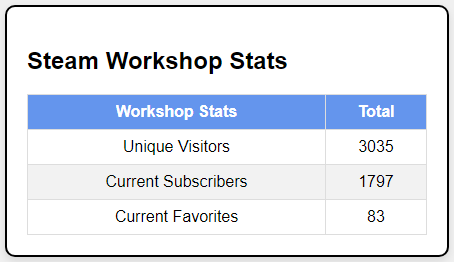
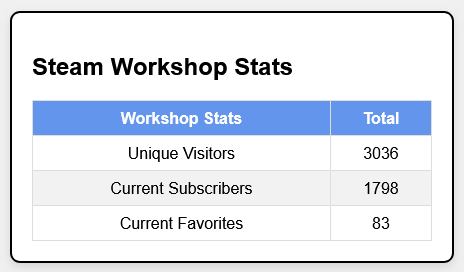
Add docker

Changed region(s): [[0.0, 0.0, 1.0, 1.0], [0.0617, 0.1832, 0.6476, 0.3053]]

diff --git a/assets/steam_summary.html b/assets/steam_summary.html
@@ -54,8 +54,8 @@
                     </p>
                 </div>
                 <div class="info-right">
-                    <p id="lastlogoff">Last Logoff: 07/06/2024</p>
-                    <p id="timecreated">PC Gaming Since: 11/07/2017</p>
+                    <p id="lastlogoff">Last Logoff: 08/06/2024</p>
+                    <p id="timecreated">PC Gaming Since: 12/07/2017</p>
                 </div>
             </div>
             

diff --git a/assets/steam_workshop_stats.html b/assets/steam_workshop_stats.html
@@ -56,11 +56,11 @@
             <tbody>
                 <tr>
                     <td>Unique Visitors</td>
-                    <td>3035</td>
+                    <td>3036</td>
                 </tr>
                 <tr>
                     <td>Current Subscribers</td>
-                    <td>1797</td>
+                    <td>1798</td>
                 </tr>
                 <tr>
                     <td>Current Favorites</td>

diff --git a/api/card.py b/api/card.py
@@ -3,70 +3,36 @@ import datetime
 import math
 import os
 import asyncio
-import tempfile
-import zipfile
-from pyppeteer import launch, errors
-import requests
+from playwright.async_api import async_playwright, Error as PlaywrightError
 from dotenv import load_dotenv
 
 load_dotenv()
 
 REQUEST_TIMEOUT = (25, 30)
-
-CHROMIUM_ZIP_URL = (
-    "https://commondatastorage.googleapis.com/chromium-browser-snapshots/Win_x64/1309077/"
-    "chrome-win.zip"
-)
-CHROMIUM_DIR = os.path.join(os.getcwd(), "chromium")
-CHROMIUM_EXE = os.path.join(CHROMIUM_DIR, "chrome-win", "chrome.exe")
-MARGIN = 5
-
-
-def download_and_extract_chromium():
-    """Download and extract Chromium from the provided URL"""
-    if not os.path.exists(CHROMIUM_DIR):
-        os.makedirs(CHROMIUM_DIR)
-    zip_path = os.path.join(CHROMIUM_DIR, "chrome-win.zip")
-    if not os.path.exists(zip_path):
-        print("Downloading Chromium...")
-        response = requests.get(
-            CHROMIUM_ZIP_URL, stream=True, timeout=REQUEST_TIMEOUT)
-        with open(zip_path, "wb") as file:
-            for chunk in response.iter_content(chunk_size=128):
-                file.write(chunk)
-        print("Chromium downloaded successfully")
-    if not os.path.exists(CHROMIUM_EXE):
-        print("Extracting Chromium...")
-        with zipfile.ZipFile(zip_path, "r") as zip_ref:
-            zip_ref.extractall(CHROMIUM_DIR)
-        print("Chromium extracted successfully")
-    # Ensure the Chromium executable has the correct permissions
-    os.chmod(CHROMIUM_EXE, 0o755)
+MARGIN = 10
 
 
 async def get_element_bounding_box(html_file, selector):
-    """Get the bounding box of the specified element using pyppeteer"""
-    user_data_dir = tempfile.mkdtemp()
+    """Get the bounding box of the specified element using Playwright"""
     browser = None
     try:
         # Check if the HTML file exists
         if not os.path.exists(html_file):
             raise FileNotFoundError(f"HTML file not found: {html_file}")
-        browser = await launch(headless=True, executablePath=CHROMIUM_EXE, args=["--no-sandbox"],
-                               handleSIGINT=False, handleSIGTERM=False,
-                               handleSIGHUP=False, userDataDir=user_data_dir)
-        page = await browser.newPage()
-        await page.goto(f"file://{os.path.abspath(html_file)}")
-        bounding_box = await page.evaluate(f"""() => {{
-            var element = document.querySelector("{selector}");
-            if (!element) {{
-                throw new Error("Element not found: {selector}");
-            }}
-            var rect = element.getBoundingClientRect();
-            return {{x: rect.x, y: rect.y, width: rect.width, height: rect.height}};
-        }}""")
-        await page.close()
-        await browser.close()
+
+        async with async_playwright() as p:
+            browser = await p.firefox.launch(headless=True)
+            page = await browser.new_page()
+            await page.goto(f"file://{os.path.abspath(html_file)}")
+            bounding_box = await page.evaluate(f"""() => {{
+                var element = document.querySelector("{selector}");
+                if (!element) {{
+                    throw new Error("Element not found: {selector}");
+                }}
+                var rect = element.getBoundingClientRect();
+                return {{x: rect.x, y: rect.y, width: rect.width, height: rect.height}};
+            }}""")
+            await page.close()
 
         # Add margin to the bounding box
         bounding_box["x"] = max(bounding_box["x"] - MARGIN, 0)
@@ -76,83 +42,51 @@ async def get_element_bounding_box(html_file, selector):
         return bounding_box
     except FileNotFoundError as e:
         print(f"File Not Found Error: {e}")
-    except errors.BrowserError as e:
-        print(f"Browser Error: {e}")
-    except errors.PageError as e:
-        print(f"Page Error: {e}")
-    except errors.NetworkError as e:
-        print(f"Network Error: {e}")
+    except PlaywrightError as e:
+        print(f"Playwright Error: {e}")
     except KeyError as e:
         print(f"Key Error: {e}")
     except asyncio.TimeoutError as e:
         print(f"Timeout Error: {e}")
     finally:
-        # Ensure the browser is closed in case of an error
         if browser:
-            try:
-                await browser.close()
-            except errors.BrowserError as e:
-                print(f"Error closing browser: {e}")
+            await browser.close()
 
 
 async def html_to_png(html_file, output_file, selector):
-    """Convert HTML file to PNG using pyppeteer with clipping"""
+    """Convert HTML file to PNG using Playwright with clipping"""
     browser = None
     try:
         bounding_box = await get_element_bounding_box(html_file, selector)
-        user_data_dir = tempfile.mkdtemp()
-        browser = await launch(headless=True, executablePath=CHROMIUM_EXE, args=["--no-sandbox"],
-                               handleSIGINT=False, handleSIGTERM=False,
-                               handleSIGHUP=False, userDataDir=user_data_dir)
-        page = await browser.newPage()
-        await page.goto(f"file://{os.path.abspath(html_file)}")
-        await page.screenshot({
-            "path": output_file,
-            "clip": {
-                "x": bounding_box["x"],
-                "y": bounding_box["y"],
-                "width": bounding_box["width"],
-                "height": bounding_box["height"]
-            }
-        })
-        await page.close()
-        await browser.close()
+        async with async_playwright() as p:
+            browser = await p.firefox.launch(headless=True)
+            page = await browser.new_page()
+            await page.goto(f"file://{os.path.abspath(html_file)}")
+            await page.screenshot(path=output_file, clip=bounding_box)
+            await page.close()
     except FileNotFoundError as e:
         print(f"File Not Found Error: {e}")
-    except errors.BrowserError as e:
-        print(f"Browser Error: {e}")
-    except errors.PageError as e:
-        print(f"Page Error: {e}")
-    except errors.NetworkError as e:
-        print(f"Network Error: {e}")
+    except PlaywrightError as e:
+        print(f"Playwright Error: {e}")
     except KeyError as e:
         print(f"Key Error: {e}")
     except asyncio.TimeoutError as e:
         print(f"Timeout Error: {e}")
     finally:
-        # Ensure the browser is closed in case of an error
         if browser:
-            try:
-                await browser.close()
-            except errors.BrowserError as e:
-                print(f"Error closing browser: {e}")
+            await browser.close()
 
 
 def convert_html_to_png(html_file, output_file, selector):
-    """Convert HTML file to PNG using pyppeteer with clipping"""
+    """Convert HTML file to PNG using Playwright with clipping"""
     try:
-        download_and_extract_chromium()
         loop = asyncio.new_event_loop()
         asyncio.set_event_loop(loop)
         loop.run_until_complete(html_to_png(html_file, output_file, selector))
     except FileNotFoundError as e:
         print(f"File Not Found Error: {e}")
-    except errors.BrowserError as e:
-        print(f"Browser Error: {e}")
-    except errors.PageError as e:
-        print(f"Page Error: {e}")
-    except errors.NetworkError as e:
-        print(f"Network Error: {e}")
+    except PlaywrightError as e:
+        print(f"Playwright Error: {e}")
     except KeyError as e:
         print(f"Key Error: {e}")
     except asyncio.TimeoutError as e:

diff --git a/api/main.py b/api/main.py
@@ -23,7 +23,7 @@ LOG_SCALE = os.getenv("INPUT_LOG_SCALE", "false").lower() == "true"
 
 
 def update_readme(markdown_data, start_marker, end_marker, readme_path="README.md"):
-    """Updates the README.md file with the provided Markdown content within specified markers."""
+    """Updates the README.md file with the provided Markdown content within specified markers"""
     # Read the current README content
     with open(readme_path, "r", encoding="utf-8") as file:
         readme_content = file.read()
